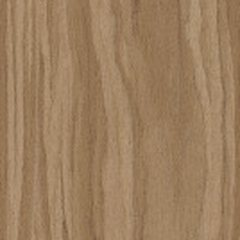
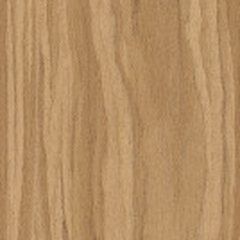
feat(look): natural тепліший і світліший на ~13 % — прозора олія, не сире альбедо скану
Claude-Session: https://claude.ai/code/session_01LkYxcUneN1nuWdyiwR9fXa

diff --git a/site/assets/products/aluma3d.js b/site/assets/products/aluma3d.js
@@ -33,7 +33,7 @@
   //   тут, публікує й хешує; scale — щільність повтору (скани 1 м проти 1,83 м),
   //   rough — множник шорсткості (олія з пігментом матовіша), normal — сила рельєфу. Ті самі файли бере Blender.
   var FINISHES = {
-    natural: { rough: 1.00, normal: 0.7,  scale: 1,    albedo: '/assets/textures/natural-albedo-1024.jpg',
+    natural: { rough: 1.00, normal: 0.7,  scale: 1,    albedo: '/assets/textures/tone-natural-albedo-1024.jpg',
                nmap: '/assets/textures/oak-normal-1024.jpg',        rmap: '/assets/textures/oak-rough-1024.jpg' },
     light:   { rough: 1.08, normal: 0.7,  scale: 1.83, albedo: '/assets/textures/tone-light-albedo-1024.jpg',
                nmap: '/assets/textures/washed-oak-normal-1024.jpg', rmap: '/assets/textures/washed-oak-rough-1024.jpg' },

diff --git a/tools/blender_scene.py b/tools/blender_scene.py
@@ -81,7 +81,7 @@ def pbr(name, base=None, rough=0.6, metal=0.0, coat=0.0, coat_rough=0.3, color=(
 # тон -> (альбедо, скан нормалей і шорсткості, щільність повтору) — те саме, що FINISHES в aluma3d.js
 # (tests/test_oak_tones.py звіряє); файли пише tools/oak_tones.py у renders-master/textures
 TONE_TEX = {
-    "natural": ("natural-albedo", "oak", 1.0),
+    "natural": ("tone-natural-albedo", "oak", 1.0),
     "light": ("tone-light-albedo", "washed-oak", 1.83),
     "honey": ("tone-honey-albedo", "oak", 1.0),
     "smoked": ("tone-smoked-albedo", "black-oak", 1.83),

diff --git a/docs/ASSETS.md b/docs/ASSETS.md
@@ -32,7 +32,7 @@
 
 | Тон | Скан | На що орієнтувались | Середній колір зразка |
 |---|---|---|---|
-| natural | Oak Veneer 01 (1,83 м) | прозора олія: дуб без пігменту (безбарвні олії Osmo 3032 / 3062) | `#9C7F5F` |
+| natural | Oak Veneer 01 (1,83 м) | прозора олія: дуб без пігменту (безбарвні олії Osmo 3032 / 3062); сире альбедо скану світлішає на ~13 % і тепліє — олія «мокрить» і гріє дерево | `#B48F64` |
 | light | Washed Grey Oak Veneer (1 м) | біла пігментна олія на дубі: Osmo 3040 «White», Rubio Monocoat «White 5 %» — світлий беж із зерном, не біла фарба | `#C2AE9B` |
 | honey | Oak Veneer 01 | бурштинова олія: Osmo 3072 «Amber» — золотисто-медовий, не помаранчевий | `#956D3E` |
 | smoked | Black Oak Veneer (1 м) | фумований (копчений аміаком) дуб: глибокий теплий коричневий, не сірий | `#6A5744` |
